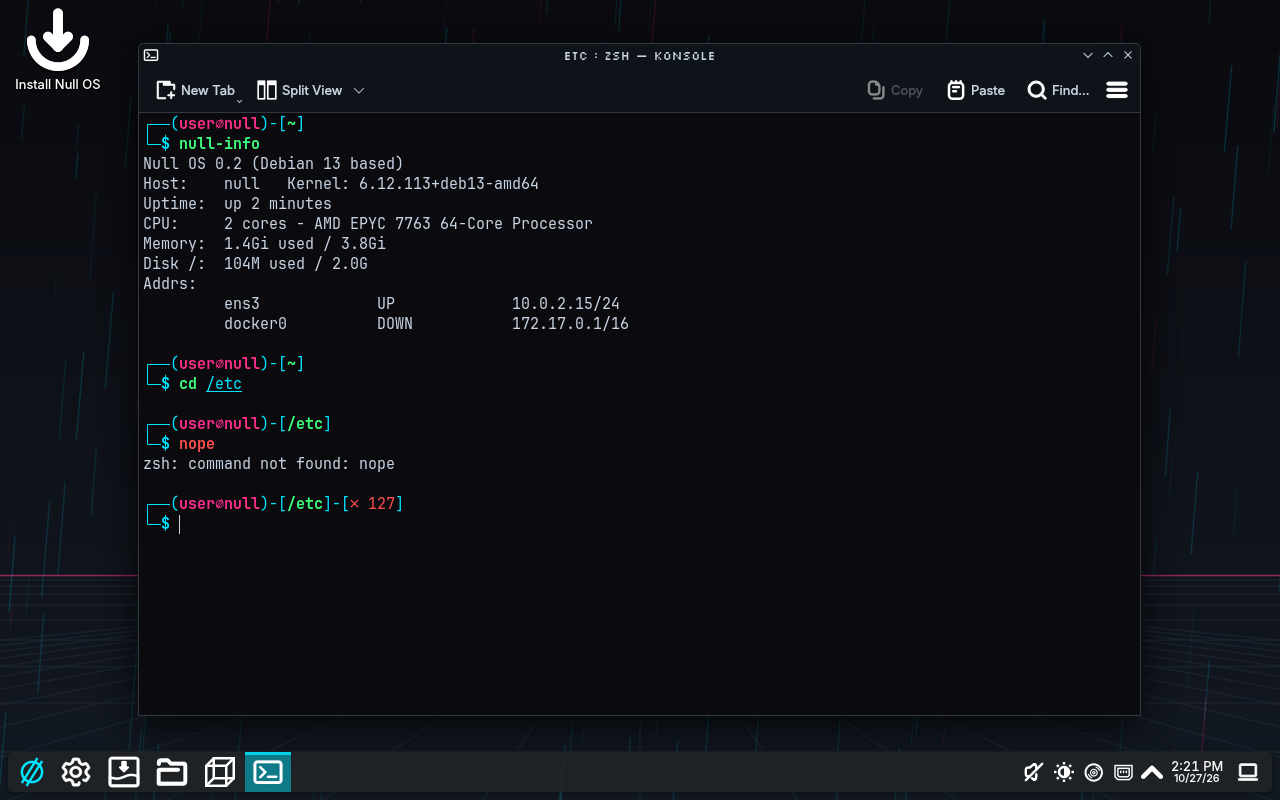
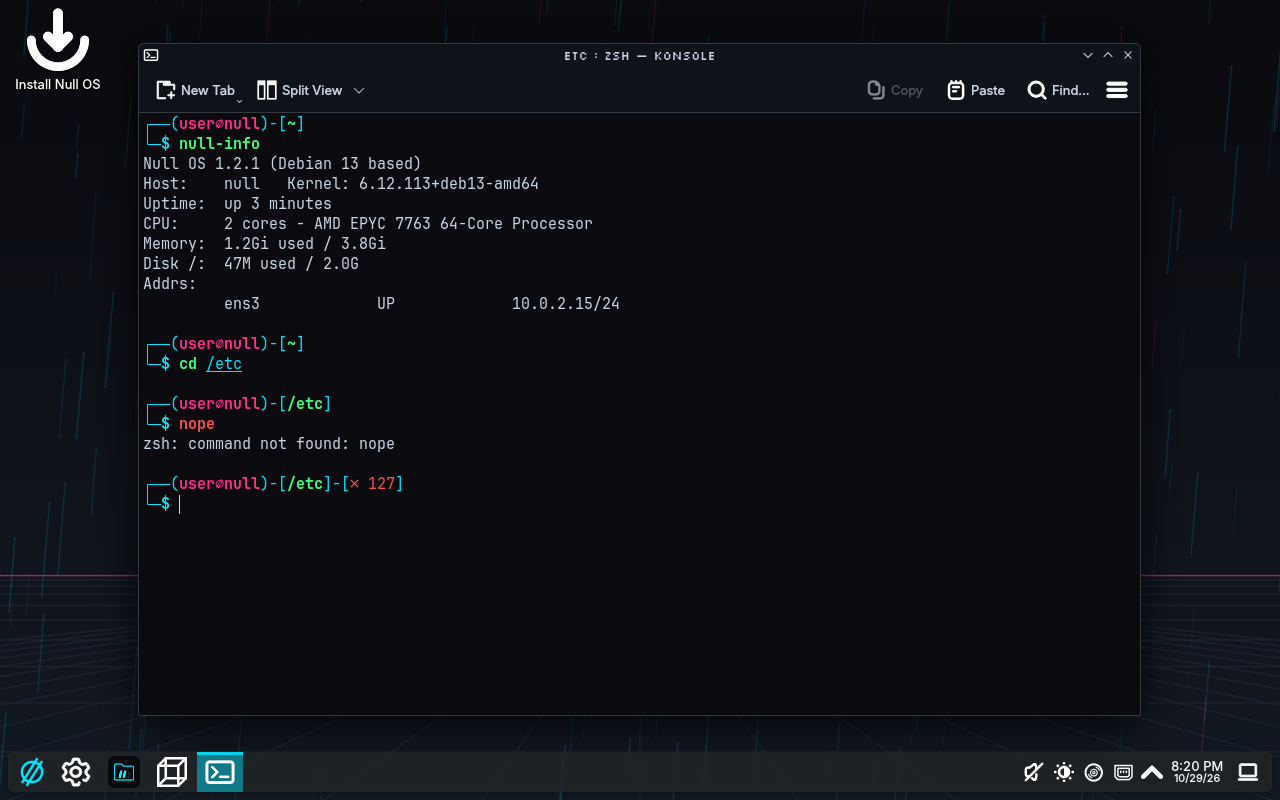
Null OS 1.2.1: Minimal or Full, Null OS Extras, new screenshots
- os.html: 1.2.1 ISO, checksum and source code list; Minimal or Full,
  Null OS Extras and the Full groups; new desktop and terminal shots
- Home spotlight, NEW pill, Downloads card and bar, terminal and backup
  page on 1.2.1 (the 1.1.0 ISO link was removed from GitHub)
- Privacy: Full and Extras download from Debian and each publisher

Claude-Session: https://claude.ai/code/session_01GZGQBzs2Nz1HTfgzwe7F6f

diff --git a/terminal.html b/terminal.html
@@ -60,7 +60,7 @@ button.opt:focus-visible{outline:1px dashed var(--cyan)}
   <div class="hint">type a number + Enter · <b>b</b> back · <b>m</b> menu · <b>help</b> · arrows for history</div>
 </div>
 <script>
[2 lines of base64/hex data omitted]
 const out = document.getElementById("out"), cmd = document.getElementById("cmd"), cwd = document.getElementById("cwd");
 const PACKET = '<svg viewBox="-1 -1 14 16" shape-rendering="crispEdges" aria-hidden="true"><rect x="5" y="0" width="2" height="1" fill="#ff2e88"/><rect x="5.5" y="1" width="1" height="1" fill="#8b92a8"/><rect x="2" y="2" width="8" height="5" fill="#323c54"/><rect x="2" y="2" width="8" height="1" fill="#4a5677"/><rect x="3" y="3" width="6" height="3" fill="#0b0e15"/><rect x="1" y="4" width="1" height="2" fill="#4a5677"/><rect x="10" y="4" width="1" height="2" fill="#4a5677"/><rect x="4" y="4" width="1" height="1" fill="#00e5ff"/><rect x="7" y="4" width="1" height="1" fill="#00e5ff"/><rect x="3" y="7" width="6" height="4" fill="#323c54"/><rect x="4" y="8" width="1" height="2" fill="#00e5ff"/><rect x="5" y="8" width="1" height="2" fill="#00e5ff"/><rect x="6" y="9" width="1" height="1" fill="#39ff88"/><rect x="2" y="8" width="1" height="2" fill="#4a5677"/><rect x="9" y="8" width="1" height="2" fill="#4a5677"/><rect x="4" y="11" width="1" height="2" fill="#4a5677"/><rect x="7" y="11" width="1" height="2" fill="#4a5677"/><rect x="3" y="13" width="2" height="1" fill="#00e5ff"/><rect x="7" y="13" width="2" height="1" fill="#00e5ff"/></svg>';
 const WAVE = '<svg viewBox="-1 -1 14 16" shape-rendering="crispEdges" aria-hidden="true"><rect x="5" y="0" width="2" height="1" fill="#ff2e88"/><rect x="5.5" y="1" width="1" height="1" fill="#8b92a8"/><rect x="2" y="2" width="8" height="5" fill="#323c54"/><rect x="2" y="2" width="8" height="1" fill="#4a5677"/><rect x="3" y="3" width="6" height="3" fill="#0b0e15"/><rect x="1" y="4" width="1" height="2" fill="#4a5677"/><rect x="10" y="4" width="1" height="2" fill="#4a5677"/><rect x="3.5" y="4.5" width="0.5" height="0.5" fill="#00e5ff"/><rect x="4" y="4" width="0.5" height="0.5" fill="#00e5ff"/><rect x="4.5" y="4" width="0.5" height="0.5" fill="#00e5ff"/><rect x="5" y="4.5" width="0.5" height="0.5" fill="#00e5ff"/><rect x="6.5" y="4.5" width="0.5" height="0.5" fill="#00e5ff"/><rect x="7" y="4" width="0.5" height="0.5" fill="#00e5ff"/><rect x="7.5" y="4" width="0.5" height="0.5" fill="#00e5ff"/><rect x="8" y="4.5" width="0.5" height="0.5" fill="#00e5ff"/><rect x="3" y="7" width="6" height="4" fill="#323c54"/><rect x="4" y="8" width="1" height="2" fill="#00e5ff"/><rect x="5" y="8" width="1" height="2" fill="#00e5ff"/><rect x="6" y="9" width="1" height="1" fill="#39ff88"/><rect x="2" y="8" width="1" height="2" fill="#4a5677"/><g class="arm"><rect x="9.5" y="4.5" width="1" height="3" fill="#4a5677"/><rect x="9.5" y="3.5" width="1" height="1" fill="#00e5ff"/></g><rect x="4" y="11" width="1" height="2" fill="#4a5677"/><rect x="7" y="11" width="1" height="2" fill="#4a5677"/><rect x="3" y="13" width="2" height="1" fill="#00e5ff"/><rect x="7" y="13" width="2" height="1" fill="#00e5ff"/></svg>';

diff --git a/os.html b/os.html
@@ -702,10 +702,10 @@ footer a { color: var(--muted); }
   <div class="floor" aria-hidden="true"></div>
   <div class="wrap">
     <div class="hero-copy">
-      <div class="eyebrow">&gt; operating system <span class="status live">v1.1.0</span></div>
+      <div class="eyebrow">&gt; operating system <span class="status live">v1.2.1</span></div>
       <h1>NULL<span class="sl">//</span>OS</h1>
       <p class="tagline">A Debian desktop in the Neon Lab look, built for homelabs and network work.</p>
-      <p class="lede">Null OS is Debian 13 underneath, with no modified packages, so security updates come straight from Debian. On top: KDE Plasma in the Null Grid style, the Null Grid browser, Null File, zsh with a two-line prompt, and a network engineer's toolkit ready to go. Run it from a USB stick or install it to a disk.</p>
+      <p class="lede">Null OS is Debian 13 underneath, with no modified packages, so security updates come straight from Debian. On top: KDE Plasma in the Null Grid style, the Null Grid browser, Null File and zsh with a two-line prompt. Install it Minimal, or Full with a network engineer's toolkit, homelab and dev tools, and everyday apps.</p>
       <div class="ctas"><a class="btn primary" href="os.html#download"><svg aria-hidden="true"><use href="#i-dl"/></svg>Download the ISO</a><a class="btn ghost" href="file.html">Meet Null File</a></div>
     </div>
     <div class="hero-logo"><svg class="" viewBox="0 0 1024 1024" role="img" aria-label="Null OS logo"><use href="#logo-os"/></svg></div>
@@ -715,7 +715,7 @@ footer a { color: var(--muted); }
   <div class="wrap">
     <figure class="tour">
       <div class="screen">
-        <div class="screen-bar"><i></i><i></i><i></i><span>null os 1.1.0</span></div>
+        <div class="screen-bar"><i></i><i></i><i></i><span>null os 1.1</span></div>
         <video controls preload="metadata" playsinline poster="null-os-tour-poster.jpg" aria-label="A tour of Null OS: boot menu, glitch startup, the start menu, Null Grid, the two-line prompt, root mode, Discover and Null File">
           <source src="null-os-tour.mp4" type="video/mp4">
         </video>
@@ -726,7 +726,7 @@ footer a { color: var(--muted); }
 </section>
 <section class="sec">
   <div class="wrap">
-    <div class="sec-head"><h2>Screenshots</h2><p>From the 1.1.0 build.</p></div>
+    <div class="sec-head"><h2>Screenshots</h2><p>From the 1.2.1 build.</p></div>
     <div class="shots">
     <figure class="tour">
       <div class="screen">
@@ -749,15 +749,17 @@ footer a { color: var(--muted); }
   <div class="wrap">
     <div class="sec-head"><h2>What's in it</h2><p>Debian underneath, Null Grid on top.</p></div>
     <div class="feats">
-      <div class="feat"><h3>KDE Plasma 6</h3><p>A Windows-style taskbar, the Null Lab color scheme, white line icons, and Silkscreen titles.</p></div>
-      <div class="feat"><h3>Null Grid apps</h3><p>The Null Grid browser and Null File come installed. Discover with Flathub gets you everything else.</p></div>
+      <div class="feat"><h3>Minimal or Full</h3><p>The installer asks, like Ubuntu. Minimal is just the Null OS desktop. Full adds everything below, or tick only the parts you want. Full downloads during install, so it needs internet.</p></div>
+      <div class="feat"><h3>Null OS Extras</h3><p>Changed your mind? The Extras app in the start menu adds any part of Full later, with progress and a summary. In the terminal: <code>null-extras list</code> and <code>null-extras install &lt;group&gt;</code>.</p></div>
+      <div class="feat"><h3>KDE Plasma 6</h3><p>A Windows-style taskbar pinned with Settings, Null File, Null Grid and Konsole, the Null Lab color scheme, white line icons, and Silkscreen titles.</p></div>
+      <div class="feat"><h3>Null Grid apps</h3><p>The Null Grid browser and Null File come with every install, Minimal included.</p></div>
       <div class="feat"><h3>A terminal you'll like</h3><p>zsh with autosuggestions and syntax highlighting, a two-line prompt, and the Null Mono font in Konsole.</p></div>
-      <div class="feat"><h3>Network toolkit</h3><p>nmap, tcpdump, Wireshark, iperf3, mtr, dnsutils, lldpd, ethtool, nftables, WireGuard tools, arp-scan, ipcalc, SNMP tools, minicom, picocom and Remmina.</p></div>
-      <div class="feat"><h3>Ready for work</h3><p>VSCodium, VLC, Gwenview for images and Okular for PDFs.</p></div>
-      <div class="feat"><h3>Safe by default</h3><p>The firewall is on and blocks incoming connections except SSH. Security updates install themselves.</p></div>
-      <div class="feat"><h3>USB or disk</h3><p>Run it live from a USB stick with your changes kept between boots, or install it with the graphical installer.</p></div>
+      <div class="feat"><h3>Network toolkit</h3><p>Part of Full: Wireshark, nmap, tcpdump, mtr, iperf3, dig, WireGuard, LLDP, minicom and more, plus Remmina for RDP and VNC.</p></div>
+      <div class="feat"><h3>Homelab and dev</h3><p>Part of Full: Docker and Podman, QEMU/KVM with virt-manager, VirtualBox, Ansible, kubectl and Terraform, VS Code or VSCodium, and Python, Node.js, Go, Rust and Java.</p></div>
+      <div class="feat"><h3>Everyday apps</h3><p>Part of Full: VLC, Gwenview, Okular, LibreOffice, Discover with Flathub, and the Claude desktop app with Claude Code.</p></div>
+      <div class="feat"><h3>Safe by default</h3><p>Security updates install themselves. Full adds a firewall that blocks incoming connections except SSH, with its own page in System Settings.</p></div>
+      <div class="feat"><h3>USB or disk</h3><p>Run it live from a USB stick with your changes kept between boots, or install it with the graphical installer. Packet sees you off on the last page.</p></div>
       <div class="feat"><h3>Root mode</h3><p>Switch to root and the terminal frame turns red, so you always know.</p></div>
-      <div class="feat"><h3>Pin new apps</h3><p>Every time you install an app, Null OS asks whether to put it on your desktop.</p></div>
       <div class="feat"><h3>Glitchy startup</h3><p>A glitch startup screen and a CRT power-off when you shut down.</p></div>
     </div>
   </div>
@@ -765,7 +767,7 @@ footer a { color: var(--muted); }
 <section class="sec dl-merged" id="download">
   <div class="wrap">
     <div class="dm-head">
-      <div class="kick">version 1.1.0 · <a href="https://github.com/Null0Grid/null-os/releases">past releases</a> · <a href="downloads.html">all apps</a></div>
+      <div class="kick">version 1.2.1 · <a href="https://github.com/Null0Grid/null-os/releases">past releases</a> · <a href="downloads.html">all apps</a></div>
       <h2>Download <span>Null OS</span></h2>
       <p>Download the ISO, put it on a USB stick and boot from it. Try it live, then install it from the desktop.</p>
       <p class="dl-note" style="margin-top:12px">Live session login: <code>user</code> / <code>live</code>. Installed systems use the account you create in the installer.</p>
@@ -775,14 +777,19 @@ footer a { color: var(--muted); }
     <h2>ISO image<small>Debian 13 (trixie) · x64</small></h2>
     <div class="fl">
         <div class="fl-row">
-          <div><h3>Null OS 1.1.0<span class="tag">x64</span></h3><p>Boot it from a USB stick to try it live, then install it from the desktop with the graphical installer.</p><div class="meta">nullos-1.1.0-trixie-amd64.iso · 1.9 GB</div></div>
-          <a class="get main" href="https://github.com/Null0Grid/null-os/releases/download/1.1.0/nullos-1.1.0-trixie-amd64.iso" data-file="nullos-1.1.0-trixie-amd64.iso"><svg aria-hidden="true"><use href="#i-dl"/></svg>Download</a>
+          <div><h3>Null OS 1.2.1<span class="tag">x64</span></h3><p>One ISO for Minimal and Full. Boot it from a USB stick to try it live, then install it and pick Minimal or Full in the installer.</p><div class="meta">nullos-1.2.1-trixie-amd64.iso · 1.8 GB</div></div>
+          <a class="get main" href="https://github.com/Null0Grid/null-os/releases/download/1.2.1/nullos-1.2.1-trixie-amd64.iso" data-file="nullos-1.2.1-trixie-amd64.iso"><svg aria-hidden="true"><use href="#i-dl"/></svg>Download</a>
           
         </div>
         <div class="fl-row">
-          <div><h3>Checksum file</h3><p>Save it next to the ISO, then check the download.</p><div class="meta">nullos-1.1.0-trixie-amd64.iso.sha256</div></div>
-          <a class="get main" href="https://github.com/Null0Grid/null-os/releases/download/1.1.0/nullos-1.1.0-trixie-amd64.iso.sha256" data-file="nullos-1.1.0-trixie-amd64.iso.sha256"><svg aria-hidden="true"><use href="#i-dl"/></svg>Download</a>
-          <div class="code"><pre><span class="p">$ </span>sha256sum -c nullos-1.1.0-trixie-amd64.iso.sha256</pre><button class="copy" type="button">copy</button></div>
+          <div><h3>Checksum file</h3><p>Save it next to the ISO, then check the download.</p><div class="meta">nullos-1.2.1-trixie-amd64.iso.sha256</div></div>
+          <a class="get main" href="https://github.com/Null0Grid/null-os/releases/download/1.2.1/nullos-1.2.1-trixie-amd64.iso.sha256" data-file="nullos-1.2.1-trixie-amd64.iso.sha256"><svg aria-hidden="true"><use href="#i-dl"/></svg>Download</a>
+          <div class="code"><pre><span class="p">$ </span>sha256sum -c nullos-1.2.1-trixie-amd64.iso.sha256</pre><button class="copy" type="button">copy</button></div>
+        </div>
+        <div class="fl-row">
+          <div><h3>Source code list</h3><p>Where to get the source of every package in this ISO.</p><div class="meta">nullos-1.2.1-SOURCES.md · 1.2 KB</div></div>
+          <a class="get main" href="https://github.com/Null0Grid/null-os/releases/download/1.2.1/nullos-1.2.1-SOURCES.md" data-file="nullos-1.2.1-SOURCES.md"><svg aria-hidden="true"><use href="#i-dl"/></svg>Download</a>
+          
         </div>
     </div>
   </div>
@@ -793,26 +800,26 @@ footer a { color: var(--muted); }
           <div><h3>With persistence (recommended)</h3><p>Writes the ISO and keeps your files and settings between boots in the space left over. Replace /dev/sdX with your USB stick (check with lsblk).</p></div>
           <span></span>
           <div class="code"><pre><span class="p">$ </span>git clone --depth 1 https://github.com/Null0Grid/null-os &amp;&amp; \
-  sudo null-os/tools/make-usb.sh nullos-1.1.0-trixie-amd64.iso /dev/sdX</pre><button class="copy" type="button">copy</button></div>
+  sudo null-os/tools/make-usb.sh nullos-1.2.1-trixie-amd64.iso /dev/sdX</pre><button class="copy" type="button">copy</button></div>
         </div>
         <div class="fl-row">
           <div><h3>With dd</h3><p>A plain copy, without persistence. balenaEtcher or Rufus on Windows also work.</p></div>
           <span></span>
-          <div class="code"><pre><span class="p">$ </span>sudo dd if=nullos-1.1.0-trixie-amd64.iso of=/dev/sdX bs=4M status=progress conv=fsync</pre><button class="copy" type="button">copy</button></div>
+          <div class="code"><pre><span class="p">$ </span>sudo dd if=nullos-1.2.1-trixie-amd64.iso of=/dev/sdX bs=4M status=progress conv=fsync</pre><button class="copy" type="button">copy</button></div>
         </div>
     </div>
   </div>
 
   <div class="ub-row" id="requirements">
     <h2>System requirements</h2>
-    <ul class="dp-req"><li>A 64-bit PC (x86-64). There's no ARM64 build yet</li><li>4 GB of RAM and 2 or more CPU cores</li><li>A USB stick of 4 GB or more to run it live, or 25 GB of disk to install it</li><li>In VirtualBox: Linux / Debian (64-bit), VMSVGA graphics with 128 MB video memory, 3D acceleration off</li></ul>
+    <ul class="dp-req"><li>A 64-bit PC (x86-64). There's no ARM64 build yet</li><li>4 GB of RAM and 2 or more CPU cores</li><li>A USB stick of 4 GB or more to run it live, or 25 GB of disk to install it</li><li>An internet connection during install if you choose Full</li><li>In VirtualBox: Linux / Debian (64-bit), VBoxSVGA graphics with 128 MB video memory, 3D acceleration off</li></ul>
   </div>
 
   <div class="ub-row" id="verify">
-    <h2>Verify your download<small>SHA-256, release 1.1.0</small></h2>
+    <h2>Verify your download<small>SHA-256, release 1.2.1</small></h2>
     <div>
       <p class="dl-note" style="margin:0 0 14px">Check a file before you run it: <code>sha256sum &lt;file&gt;</code> on Linux and macOS, <code>Get-FileHash &lt;file&gt;</code> in PowerShell.</p>
-      <div class="dp-sums" id="checksums"><table><tbody><tr><td>nullos-1.1.0-trixie-amd64.iso</td><td>ISO image · x64</td><td class="hash">60bebe5014c79d6cf318f12b4b84d22f515a7716e3962ae958a339e4edd1c866</td></tr><tr><td>nullos-1.1.0-trixie-amd64.iso.sha256</td><td>Checksum file</td><td class="hash">99043a82432d2550ed9ebae906e85736e9cccca001c02a834a530e29fbcdb367</td></tr></tbody></table></div>
+      <div class="dp-sums" id="checksums"><table><tbody><tr><td>nullos-1.2.1-SOURCES.md</td><td>Source code list</td><td class="hash">bd14d5076f0b2bb2d88f4a10bdda295f2aefe4d3a85892ddc96e6e2fad468736</td></tr><tr><td>nullos-1.2.1-trixie-amd64.iso</td><td>ISO image · x64</td><td class="hash">c9cbb88e209b1c87bc8f49e02db88e3dc1dc94062a52740684d3e8133adc358a</td></tr><tr><td>nullos-1.2.1-trixie-amd64.iso.sha256</td><td>Checksum file</td><td class="hash">11476bba884d7c8c3d100a0ff57a1903aca8a22bcec3188f7286b94eb435f5e7</td></tr></tbody></table></div>
     </div>
   </div>
 

diff --git a/index.html b/index.html
@@ -701,7 +701,7 @@ footer a { color: var(--muted); }
 <section class="hero home">
   <div class="floor" aria-hidden="true"></div>
   <div class="wrap">
-    <a class="new-pill" href="#new"><b>NEW</b>Null OS 1.1.0 is here: our own operating system &rsaquo;</a>
+    <a class="new-pill" href="#new"><b>NEW</b>Null OS 1.2.1: Minimal or Full, you choose &rsaquo;</a>
     <div class="eyebrow">&gt; null grid <span>· suite · browser · search · files · os</span></div>
     <h1 class="glitch" data-text="NULL//GRID">NULL<span class="sl">//</span>GRID<span class="cur">_</span></h1>
     <p class="motto"><span class="red">Your data.</span> <span>Your grid.</span></p>
@@ -720,17 +720,17 @@ footer a { color: var(--muted); }
     <article class="spot">
       <div>
         <span class="badge">NEW · JUST RELEASED</span>
-        <div class="kick">version 1.1.0 · Debian 13 · x64 PC</div>
+        <div class="kick">version 1.2.1 · Debian 13 · x64 PC</div>
         <h2><svg aria-hidden="true" viewBox="0 0 1024 1024"><use href="#logo-os"/></svg><span>NULL<span class="sl">//</span>OS</span></h2>
-        <p>Our own operating system. A Debian desktop in the Neon Lab look, with the Null Grid browser, Null File and a network engineer's toolkit built in. Try it live from a USB stick, then install it.</p>
-        <div class="chips"><span>KDE Plasma 6</span><span>Null Grid</span><span>Null File</span><span>zsh</span><span>nmap · Wireshark</span></div>
+        <p>Our own operating system. A Debian desktop in the Neon Lab look, with the Null Grid browser and Null File built in. Install it Minimal, or Full with a network toolkit, homelab and dev tools. Try it live from a USB stick first.</p>
+        <div class="chips"><span>Minimal or Full</span><span>KDE Plasma 6</span><span>Null Grid</span><span>Null File</span><span>Docker · KVM</span><span>nmap · Wireshark</span></div>
         <div class="ctas">
           <a class="btn primary" href="os.html#download"><svg aria-hidden="true"><use href="#i-dl"/></svg>Download Null OS</a>
           <a class="btn ghost" href="os.html"><svg aria-hidden="true"><use href="#i-go"/></svg>Watch the tour</a>
         </div>
       </div>
       <a class="screen" href="os.html" aria-label="See Null OS">
-        <div class="screen-bar"><i></i><i></i><i></i><span>null os 1.1.0</span></div>
+        <div class="screen-bar"><i></i><i></i><i></i><span>null os 1.2.1</span></div>
         <img src="os-desktop.png" alt="The Null OS desktop" width="1280" height="800">
       </a>
     </article>
@@ -815,7 +815,7 @@ footer a { color: var(--muted); }
         <div class="block-top">
           <a href="os.html" tabindex="-1" aria-hidden="true"><svg class="glyph" viewBox="0 0 1024 1024" role="img" aria-label="Null OS logo"><use href="#logo-os"/></svg></a>
           <div class="block-title"><h3><a href="os.html">Null <span>OS</span></a></h3><div class="kind">operating system · Debian based</div></div>
-          <span class="status live">v1.1.0</span>
+          <span class="status live">v1.2.1</span>
         </div>
         <p>A Debian desktop in the Neon Lab look, with KDE Plasma, the Null Grid browser, Null File and a network engineer's toolkit.</p>
         <div class="actions"><a class="get main" href="os.html#download"><svg aria-hidden="true"><use href="#i-dl"/></svg>Download</a></div>

diff --git a/backup.html b/backup.html
@@ -60,13 +60,13 @@
 <hr>
 
 <h2 id="os">Null OS</h2>
-<p>Operating system for 64-bit PCs, based on Debian 13. Live session login: user / live. Version 1.1.0.</p>
+<p>Operating system for 64-bit PCs, based on Debian 13. One ISO; choose Minimal or Full in the installer. Live session login: user / live. Version 1.2.1.</p>
 <h3>ISO image</h3>
-<ul><li><a href="https://github.com/Null0Grid/null-os/releases/download/1.1.0/nullos-1.1.0-trixie-amd64.iso">Null OS 1.1.0, x64</a> &middot; <code>nullos-1.1.0-trixie-amd64.iso</code> &middot; 1.9 GB</li><li><a href="https://github.com/Null0Grid/null-os/releases/download/1.1.0/nullos-1.1.0-trixie-amd64.iso.sha256">Checksum file</a> &middot; <code>nullos-1.1.0-trixie-amd64.iso.sha256</code> &middot; 0.1 KB</li></ul>
+<ul><li><a href="https://github.com/Null0Grid/null-os/releases/download/1.2.1/nullos-1.2.1-trixie-amd64.iso">Null OS 1.2.1, x64</a> &middot; <code>nullos-1.2.1-trixie-amd64.iso</code> &middot; 1.8 GB</li><li><a href="https://github.com/Null0Grid/null-os/releases/download/1.2.1/nullos-1.2.1-trixie-amd64.iso.sha256">Checksum file</a> &middot; <code>nullos-1.2.1-trixie-amd64.iso.sha256</code> &middot; 0.1 KB</li><li><a href="https://github.com/Null0Grid/null-os/releases/download/1.2.1/nullos-1.2.1-SOURCES.md">Source code list</a> &middot; <code>nullos-1.2.1-SOURCES.md</code> &middot; 1.2 KB</li></ul>
 <h3>Put it on a USB stick</h3>
 <ul><li>With persistence (recommended): <code>git clone --depth 1 https://github.com/Null0Grid/null-os &amp;&amp; \
-  sudo null-os/tools/make-usb.sh nullos-1.1.0-trixie-amd64.iso /dev/sdX</code></li><li>With dd: <code>sudo dd if=nullos-1.1.0-trixie-amd64.iso of=/dev/sdX bs=4M status=progress conv=fsync</code></li></ul>
-<details><summary>SHA-256 checksums</summary><table border="1" cellpadding="4"><tr><th>File</th><th>SHA-256</th></tr><tr><td><code>nullos-1.1.0-trixie-amd64.iso</code></td><td><code>60bebe5014c79d6cf318f12b4b84d22f515a7716e3962ae958a339e4edd1c866</code></td></tr><tr><td><code>nullos-1.1.0-trixie-amd64.iso.sha256</code></td><td><code>99043a82432d2550ed9ebae906e85736e9cccca001c02a834a530e29fbcdb367</code></td></tr></table></details>
+  sudo null-os/tools/make-usb.sh nullos-1.2.1-trixie-amd64.iso /dev/sdX</code></li><li>With dd: <code>sudo dd if=nullos-1.2.1-trixie-amd64.iso of=/dev/sdX bs=4M status=progress conv=fsync</code></li></ul>
+<details><summary>SHA-256 checksums</summary><table border="1" cellpadding="4"><tr><th>File</th><th>SHA-256</th></tr><tr><td><code>nullos-1.2.1-SOURCES.md</code></td><td><code>bd14d5076f0b2bb2d88f4a10bdda295f2aefe4d3a85892ddc96e6e2fad468736</code></td></tr><tr><td><code>nullos-1.2.1-trixie-amd64.iso</code></td><td><code>c9cbb88e209b1c87bc8f49e02db88e3dc1dc94062a52740684d3e8133adc358a</code></td></tr><tr><td><code>nullos-1.2.1-trixie-amd64.iso.sha256</code></td><td><code>11476bba884d7c8c3d100a0ff57a1903aca8a22bcec3188f7286b94eb435f5e7</code></td></tr></table></details>
 <hr>
 
 <h2 id="search">Null Search</h2>

diff --git a/downloads.html b/downloads.html
@@ -699,7 +699,7 @@ footer a { color: var(--muted); }
   </div>
 </header>
 <nav class="ub-sub" aria-label="Downloads"><div class="wrap"><span class="lbl">DOWNLOADS</span><a href="downloads.html" class="on" aria-current="page">All apps</a><a href="https://search.nullgrid.dev"><svg aria-hidden="true" viewBox="0 0 1024 1024"><use href="#logo-search"/></svg>Null Search</a><a href="grid.html#download"><svg aria-hidden="true" viewBox="0 0 1024 1024"><use href="#logo-grid"/></svg>Null Grid</a><a href="notes.html#download"><svg aria-hidden="true" viewBox="0 0 1024 1024"><use href="#logo-notes"/></svg>Null Notes</a><a href="drive.html#download"><svg aria-hidden="true" viewBox="0 0 1024 1024"><use href="#logo-drive"/></svg>Null Drive</a><a href="scribe.html#download"><svg aria-hidden="true" viewBox="0 0 1024 1024"><use href="#logo-scribe"/></svg>Null Scribe</a><a href="file.html#download"><svg aria-hidden="true" viewBox="0 0 1024 1024"><use href="#logo-file"/></svg>Null File</a><a href="os.html#download"><svg aria-hidden="true" viewBox="0 0 1024 1024"><use href="#logo-os"/></svg>Null OS</a></div></nav>
-<div class="ub-note"><div class="wrap"><b>NEW</b><span>Null OS 1.1.0 is out: our own Debian-based desktop. <a href="os.html#download">Download the ISO &rsaquo;</a></span></div></div>
+<div class="ub-note"><div class="wrap"><b>NEW</b><span>Null OS 1.2.1 is out: install Minimal or Full. <a href="os.html#download">Download the ISO &rsaquo;</a></span></div></div>
 
 <section class="ub-hero">
   <div class="floor" aria-hidden="true"></div>
@@ -771,8 +771,8 @@ footer a { color: var(--muted); }
       <article class="ub-card" id="dl-os">
         <svg aria-hidden="true" viewBox="0 0 1024 1024"><use href="#logo-os"/></svg>
         <h3><a href="os.html">Null OS</a></h3>
-        <div class="ver">1.1.0<span class="status live">x64 PC</span></div>
-        <div><p>A Debian 13 desktop in the Neon Lab look, with the Null Grid browser and Null File built in. One ISO: try it live from a USB stick, then install it.</p>
+        <div class="ver">1.2.1<span class="status live">x64 PC</span></div>
+        <div><p>A Debian 13 desktop in the Neon Lab look, with the Null Grid browser and Null File built in. One ISO: try it live, then install Minimal or Full.</p>
         <div class="ctas"><a class="get main" href="os.html#download"><svg aria-hidden="true"><use href="#i-dl"/></svg>Download</a></div>
         </div>
       </article>

diff --git a/privacy.html b/privacy.html
@@ -783,7 +783,7 @@ footer a { color: var(--muted); }
       <p>Null OS has no accounts, analytics or telemetry of its own, and it doesn't send anything to us. It's Debian underneath, so it talks to the same servers any Debian system does:</p>
       <ul>
         <li><strong>Security updates</strong> install themselves from Debian's servers, which see your IP address.</li>
-        <li><strong>Discover</strong> connects to Debian and Flathub when you browse or install apps.</li>
+        <li><strong>Full and Null OS Extras</strong> download the parts you pick from Debian and the projects that publish them (for example Docker, VirtualBox, Microsoft for VS Code and Anthropic for Claude). <strong>Discover</strong>, if you add it, connects to Debian and Flathub.</li>
         <li>The apps that come with it, like Null Grid and Null File, follow their own sections above.</li>
       </ul>
 
